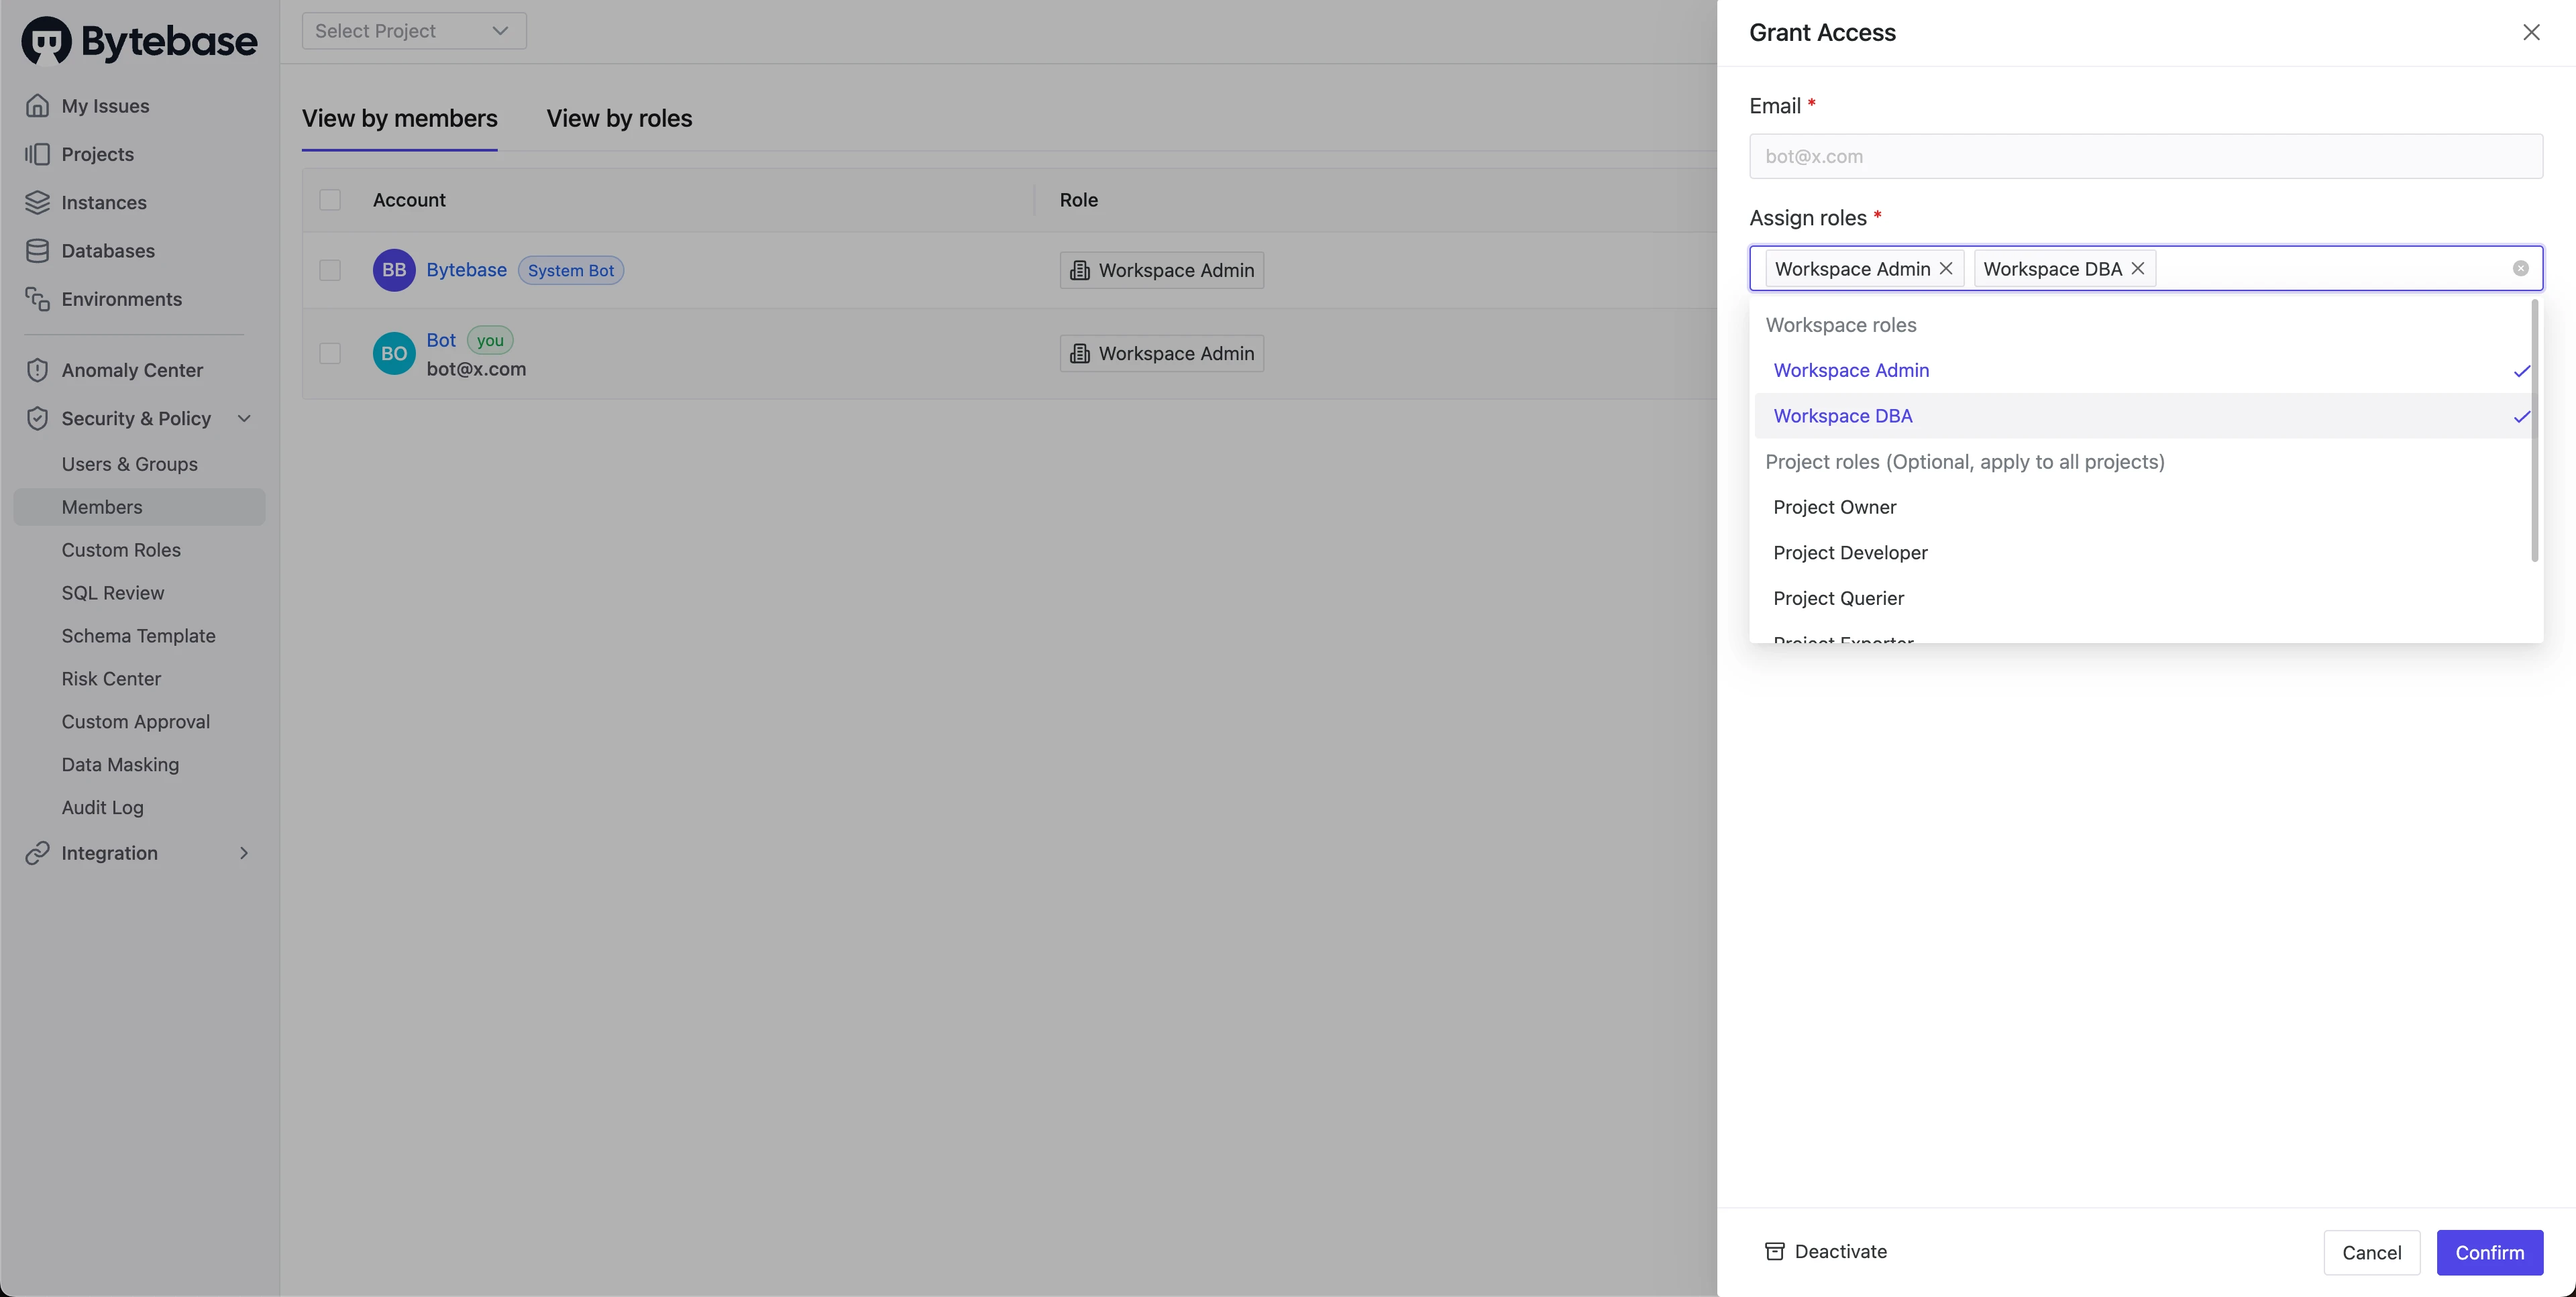
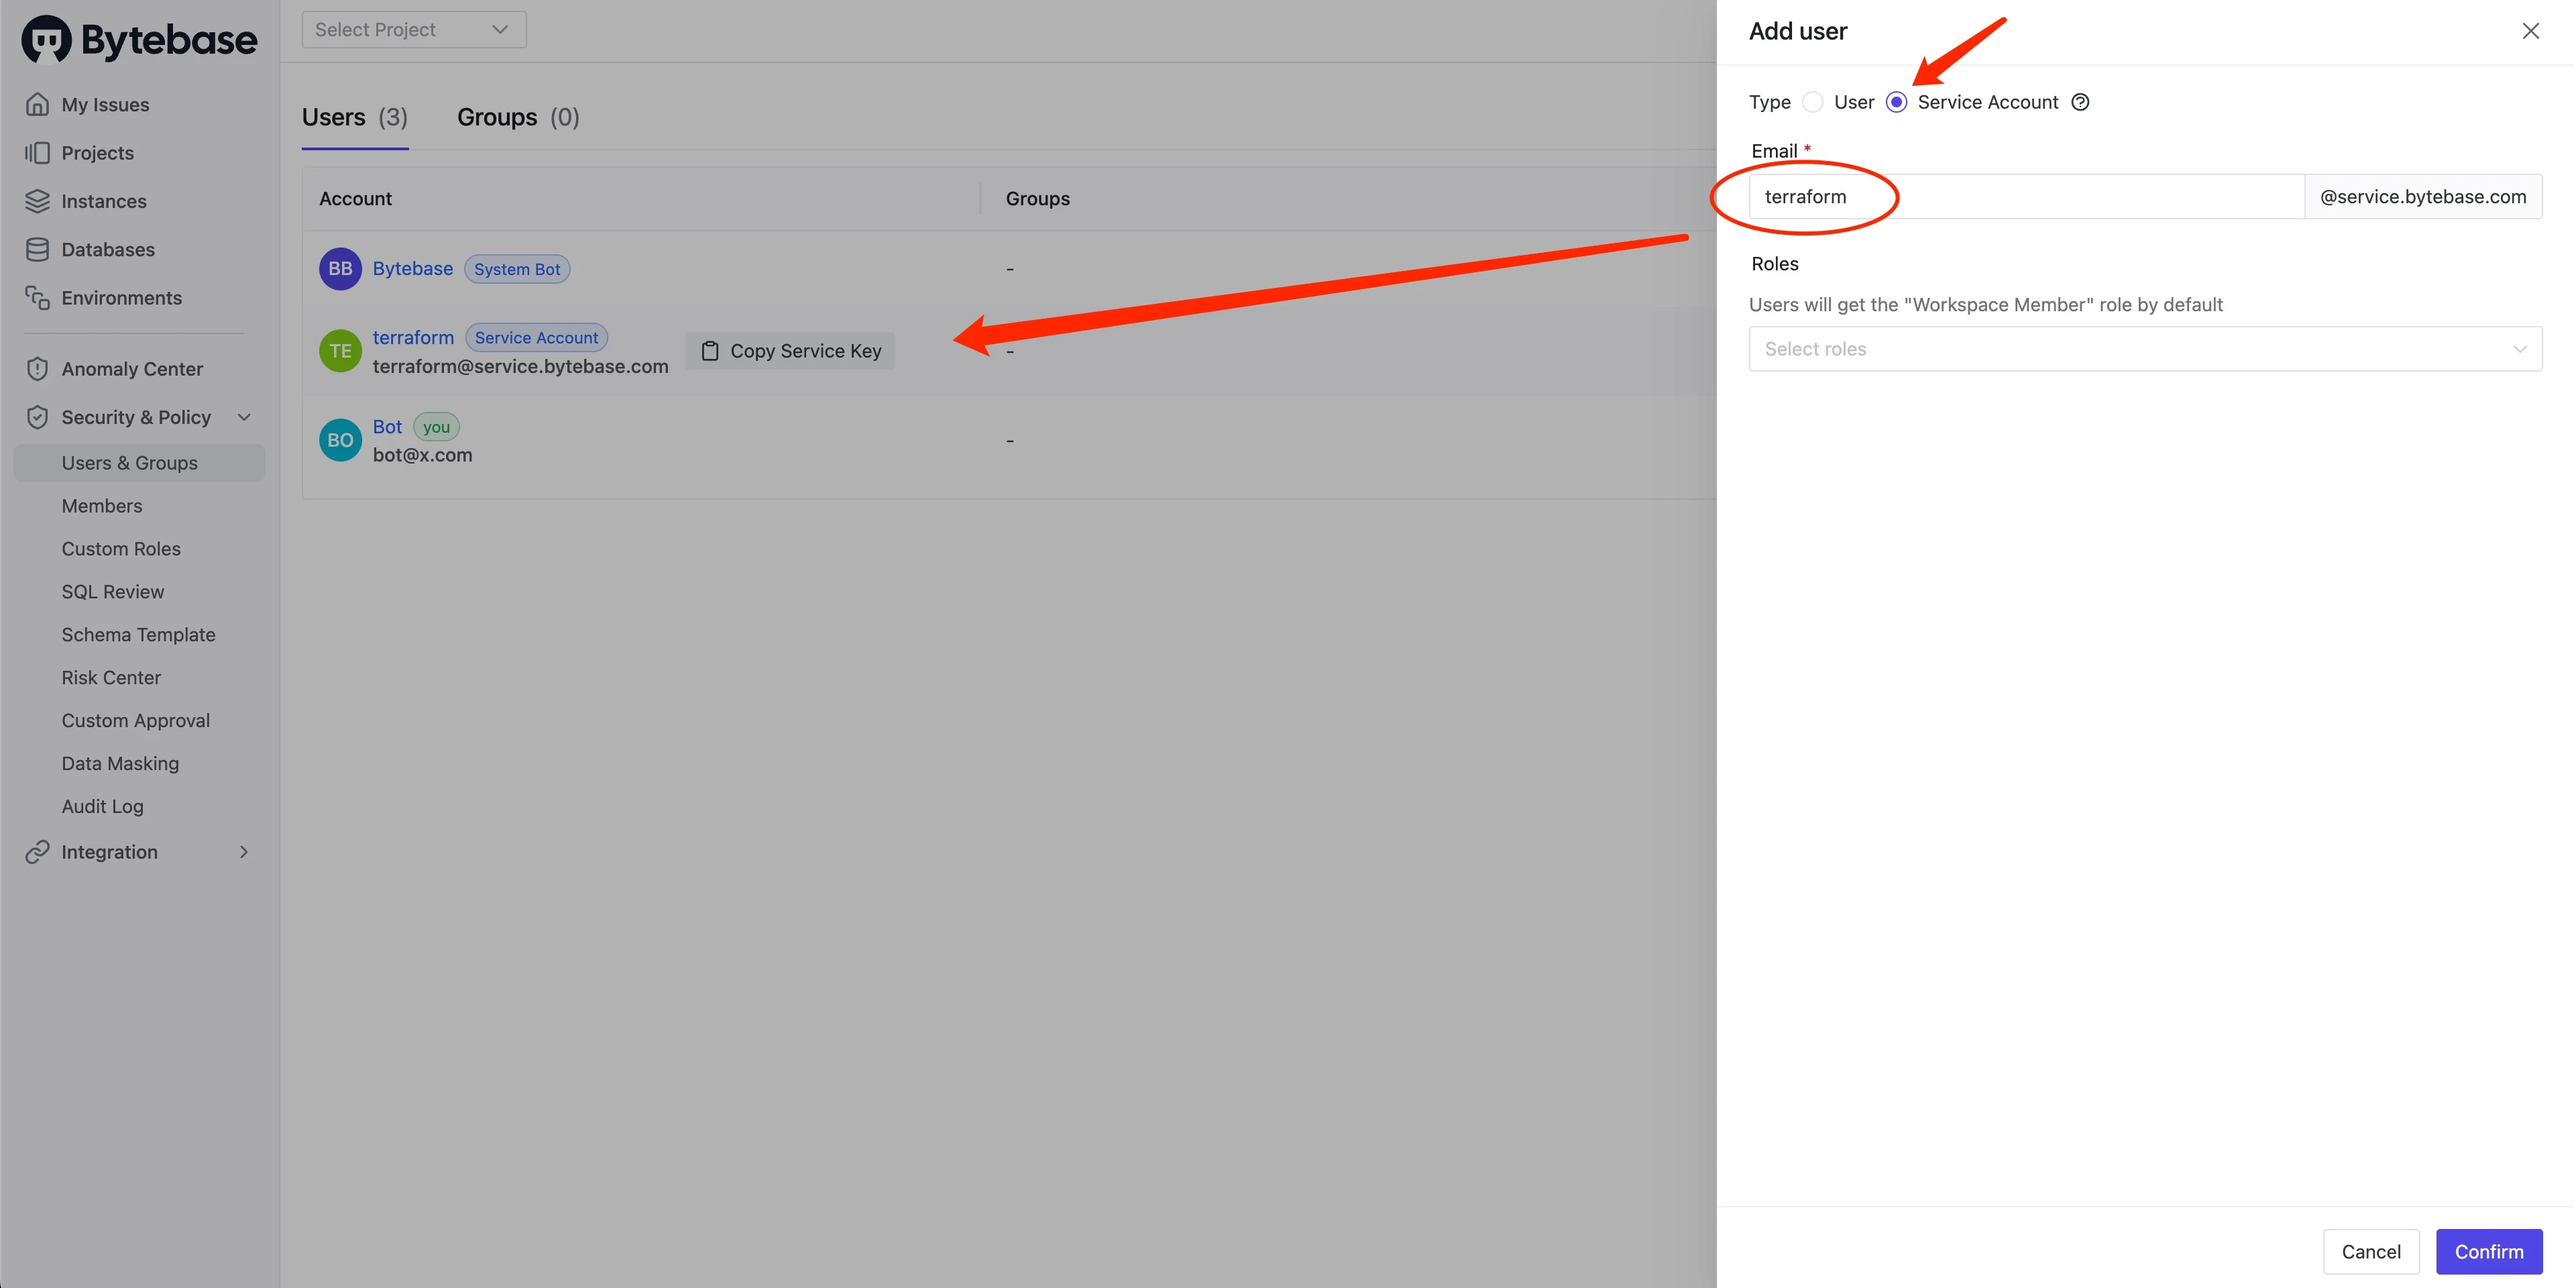
docs: api-authentication updated (#385)

diff --git a/content/docs/api/authentication.md b/content/docs/api/authentication.md
@@ -12,7 +12,7 @@ title: Authentication
 
 You should create service account to interact with the Bytebase API.
 
-Visit Bytebase **Members** management page in **Security & Policy** section on the left. Click the pencil icon on your service account's row to grant **Owner** or **DBA** role to it.
+In **Users & Groups** under **Security & Policy** section, **Add User** on the upper-right. Choose **Service Account** Type, fill in the email and **Confirm**. Then you can see your service account in the list. **Copy Service Key** right away.
 
 ![create-service-account](/content/docs/get-started/work-with-terraform/create-service-account.webp)
 
